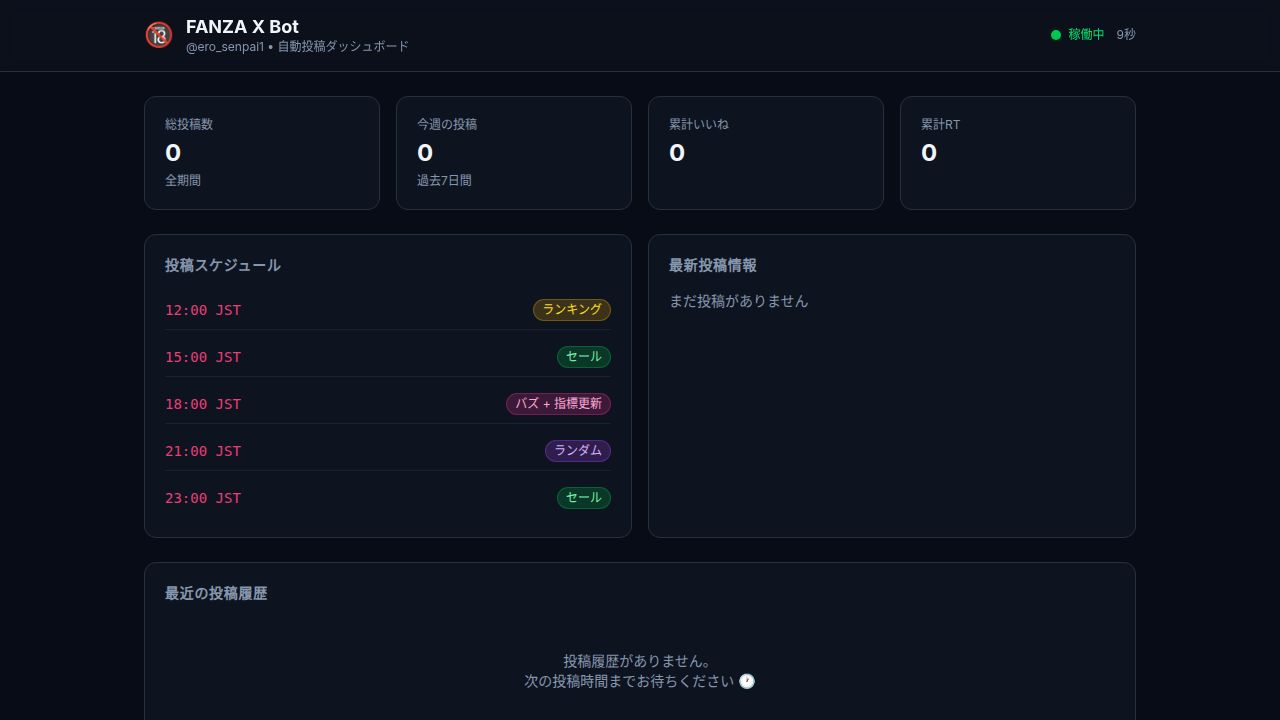
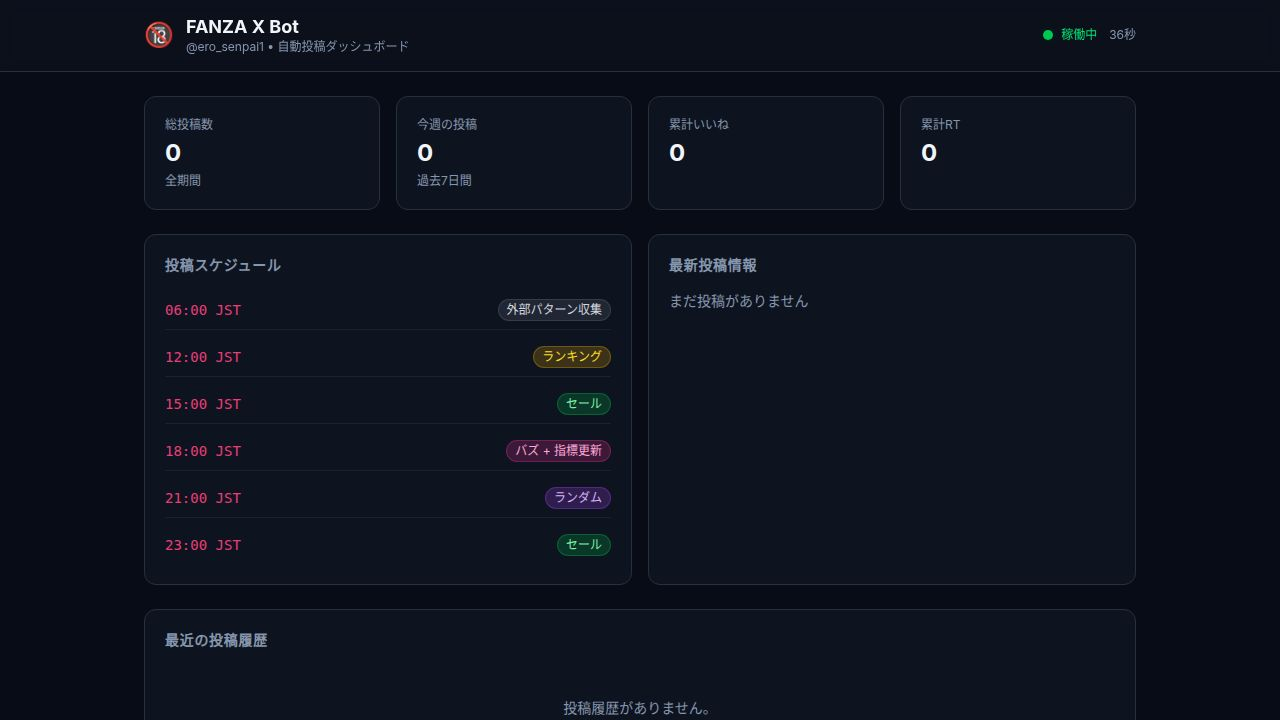
Improve external pattern collection by handling API errors and adding account tracking
Update Twitter API search to gracefully handle tier limitations and implement fallback for fetching tweets from specific user accounts.

Replit-Commit-Author: Agent
Replit-Commit-Session-Id: dbd43297-de30-47b6-9241-23a816d90b91
Replit-Commit-Checkpoint-Type: full_checkpoint
Replit-Commit-Event-Id: 5dd4baef-a970-4778-b822-f9a05a9a3882
Replit-Commit-Screenshot-Url: https://storage.googleapis.com/screenshot-production-us-central1/9438bc98-2368-4410-834b-d55717b993f1/dbd43297-de30-47b6-9241-23a816d90b91/HaGwNTE
Replit-Helium-Checkpoint-Created: true

diff --git a/artifacts/api-server/src/bot/analytics.ts b/artifacts/api-server/src/bot/analytics.ts
@@ -1,5 +1,5 @@
 import { getRecentPostIds, updateMetrics, upsertExternalPatterns } from './storage.js';
-import { getTweetMetrics, searchTweetsByHashtag } from './twitter.js';
+import { getTweetMetrics, searchTweetsByHashtag, fetchUserTimelineByUsername } from './twitter.js';
 
 function sleep(ms: number) {
   return new Promise((r) => setTimeout(r, ms));
@@ -28,32 +28,76 @@ export async function refreshRecentMetrics() {
 
 const SEARCH_QUERIES = [
   '#FANZA',
-  '#fanza アフィリエイト',
-  '#DMM 人気',
+  '#DMM',
 ];
+
+// 参照するアカウント一覧（環境変数 TRACK_ACCOUNTS でカンマ区切りで追加可能）
+function getTrackAccounts(): string[] {
+  const env = process.env.TRACK_ACCOUNTS ?? '';
+  return env.split(',').map((s) => s.trim()).filter(Boolean);
+}
 
 function calcScore(t: { like_count: number; retweet_count: number; reply_count: number; bookmark_count: number; impression_count: number }): number {
   return t.like_count + t.retweet_count * 3 + t.bookmark_count * 2 + t.reply_count;
 }
 
+function isSearchTierError(e: any): boolean {
+  const code = e?.code ?? e?.status ?? 0;
+  const msg: string = e?.message ?? '';
+  return code === 403 || code === 401 || msg.includes('403') || msg.includes('401') || msg.includes('not permitted');
+}
+
 export async function refreshExternalPatterns() {
   console.log('  🔍 外部パターン収集開始...');
   let totalAdded = 0;
+  let searchSupported = true;
 
-  for (const query of SEARCH_QUERIES) {
-    try {
-      const tweets = await searchTweetsByHashtag(query, 30);
-      const scored = tweets
-        .map((t) => ({ ...t, score: calcScore(t) }))
-        .filter((t) => t.score >= 5);
+  // ① ハッシュタグ検索
+  if (searchSupported) {
+    for (const query of SEARCH_QUERIES) {
+      try {
+        const tweets = await searchTweetsByHashtag(query, 30);
+        const scored = tweets
+          .map((t) => ({ ...t, score: calcScore(t) }))
+          .filter((t) => t.score >= 3);
 
-      const added = upsertExternalPatterns(scored, query);
-      console.log(`    "${query}" → ${tweets.length} 件取得 / ${added} 件新規保存`);
-      totalAdded += added;
-      await sleep(2000);
-    } catch (e: any) {
-      console.warn(`    ⚠ "${query}" 検索失敗: ${e.message}`);
+        const added = upsertExternalPatterns(scored, query);
+        console.log(`    "${query}" → ${tweets.length} 件取得 / ${added} 件新規保存`);
+        totalAdded += added;
+        await sleep(2000);
+      } catch (e: any) {
+        if (isSearchTierError(e)) {
+          console.warn('    ⚠ 検索 API は現在のプランでは使用できません。アカウント別収集のみ実行します。');
+          searchSupported = false;
+          break;
+        }
+        console.warn(`    ⚠ "${query}" 検索失敗: ${e.message}`);
+      }
     }
+  }
+
+  // ② アカウント別タイムライン取得（TRACK_ACCOUNTS 環境変数で指定）
+  const trackAccounts = getTrackAccounts();
+  if (trackAccounts.length > 0) {
+    console.log(`    📋 追跡アカウント: ${trackAccounts.join(', ')}`);
+    for (const username of trackAccounts) {
+      try {
+        const tweets = await fetchUserTimelineByUsername(username, 20);
+        const scored = tweets
+          .map((t) => ({ ...t, score: calcScore(t) }))
+          .filter((t) => t.score >= 3);
+
+        const added = upsertExternalPatterns(scored, `@${username}`);
+        console.log(`    @${username} → ${tweets.length} 件取得 / ${added} 件新規保存`);
+        totalAdded += added;
+        await sleep(2000);
+      } catch (e: any) {
+        console.warn(`    ⚠ @${username} 取得失敗: ${e.message}`);
+      }
+    }
+  } else if (!searchSupported) {
+    console.log('    💡 参照アカウントを追加するには TRACK_ACCOUNTS 環境変数にユーザー名をカンマ区切りで設定してください');
+    console.log('    例: TRACK_ACCOUNTS=fanza_bot1,dmm_affiliate2');
   }
 
   console.log(`  外部パターン収集完了 (新規 ${totalAdded} 件)`);

diff --git a/artifacts/api-server/src/bot/twitter.ts b/artifacts/api-server/src/bot/twitter.ts
@@ -86,14 +86,45 @@ export async function searchTweetsByHashtag(
   query: string,
   maxResults = 20,
 ): Promise<SearchedTweet[]> {
-  const myUserId = process.env.TWITTER_USER_ID ?? '';
-  const exclusion = myUserId ? ` -from:${myUserId}` : '';
-  const fullQuery = `${query} has:media lang:ja -is:retweet${exclusion}`;
+  const fullQuery = `${query} -is:retweet lang:ja`;
 
   const res = await client.v2.search(fullQuery, {
-    max_results: Math.min(maxResults, 100),
+    max_results: Math.min(Math.max(maxResults, 10), 100),
     'tweet.fields': ['public_metrics', 'created_at', 'author_id'],
-    sort_order: 'relevancy',
+  });
+
+  const myUserId = process.env.TWITTER_USER_ID ?? '';
+  const tweets: SearchedTweet[] = [];
+  for (const t of res.data?.data ?? []) {
+    if (myUserId && t.author_id === myUserId) continue;
+    const m = t.public_metrics ?? ({} as any);
+    tweets.push({
+      id: t.id,
+      text: t.text,
+      authorId: t.author_id ?? '',
+      like_count: m.like_count ?? 0,
+      retweet_count: m.retweet_count ?? 0,
+      reply_count: m.reply_count ?? 0,
+      bookmark_count: m.bookmark_count ?? 0,
+      impression_count: m.impression_count ?? 0,
+      createdAt: t.created_at ?? new Date().toISOString(),
+    });
+  }
+  return tweets;
+}
+
+export async function fetchUserTimelineByUsername(
+  username: string,
+  count = 20,
+): Promise<SearchedTweet[]> {
+  const userRes = await client.v2.userByUsername(username, {});
+  const userId = userRes.data?.id;
+  if (!userId) throw new Error(`ユーザー @${username} が見つかりません`);
+
+  const res = await client.v2.userTimeline(userId, {
+    max_results: Math.min(count, 100),
+    'tweet.fields': ['public_metrics', 'created_at', 'author_id'],
+    exclude: ['retweets', 'replies'],
   });
 
   const tweets: SearchedTweet[] = [];
@@ -102,7 +133,7 @@ export async function searchTweetsByHashtag(
     tweets.push({
       id: t.id,
       text: t.text,
-      authorId: t.author_id ?? '',
+      authorId: userId,
       like_count: m.like_count ?? 0,
       retweet_count: m.retweet_count ?? 0,
       reply_count: m.reply_count ?? 0,